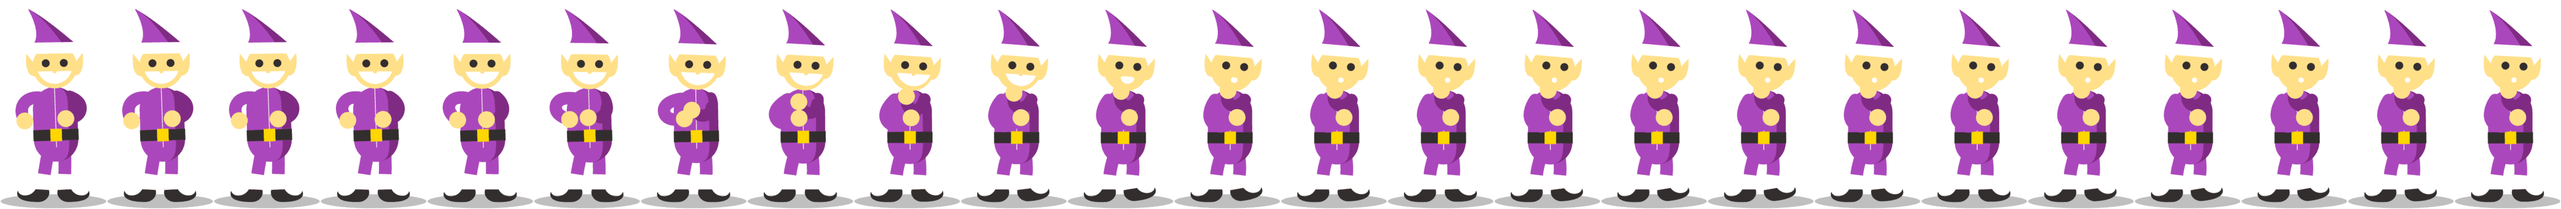
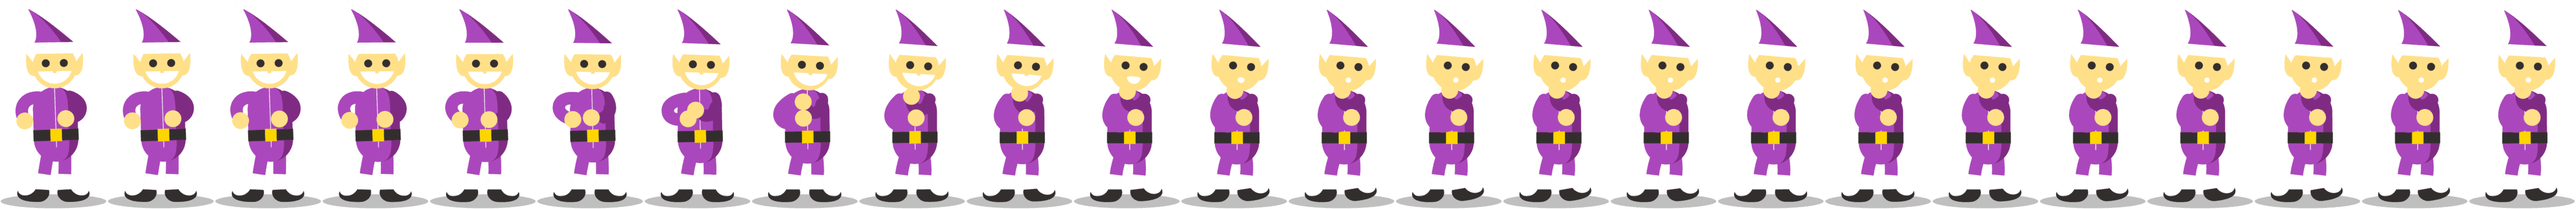
Update watch move

Changed region(s): [[0.9341, 0.8911, 0.9963, 0.9525], [0.685, 0.8911, 0.7161, 0.9525], [0.5604, 0.8911, 0.5916, 0.9525]]

diff --git a/scenes/codeboogieframe/js/animation_data.js b/scenes/codeboogieframe/js/animation_data.js
@@ -204,7 +204,7 @@ app.AnimationData = (color) => {
 
   let purpleMoves = {
     "watch_0": {
-      "width": 182,
+      "width": 183,
       "height": 358,
       "offsetX": 480,
       "offsetY": 152
@@ -212,7 +212,7 @@ app.AnimationData = (color) => {
     "watch_1": {
       "width": 183,
       "height": 358,
-      "offsetX": 479,
+      "offsetX": 480,
       "offsetY": 152
     }
   };
